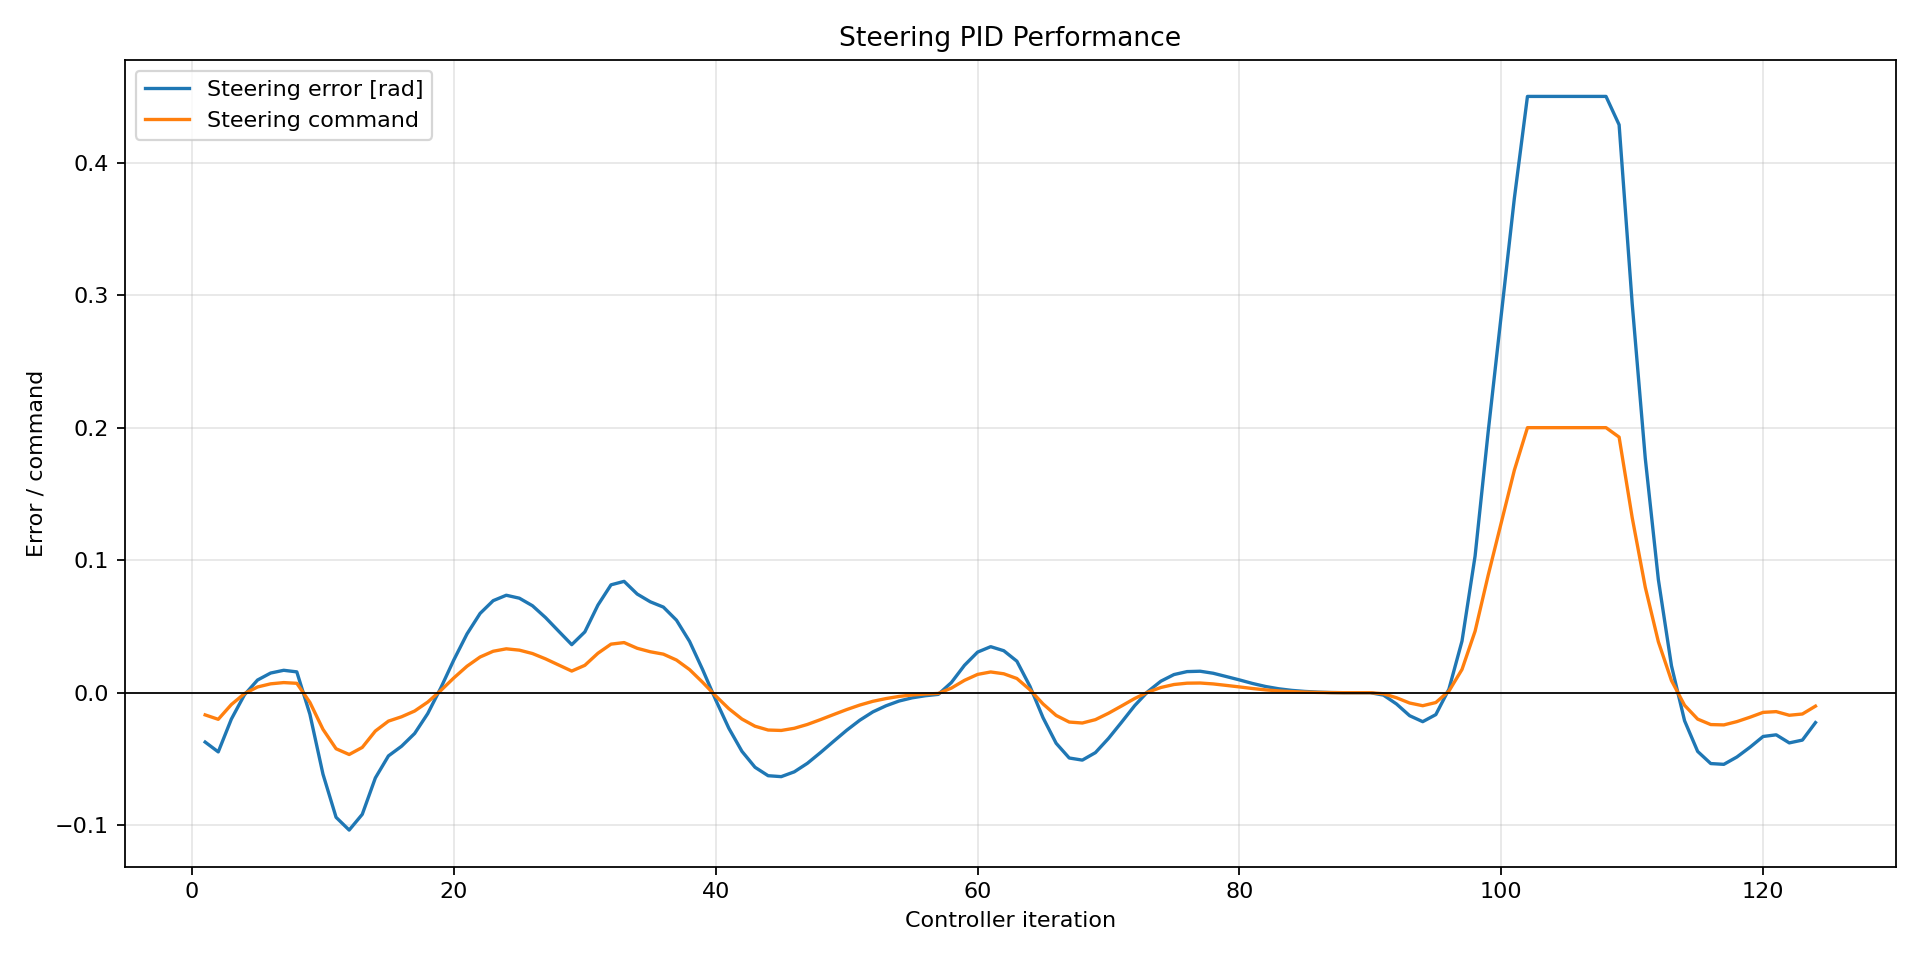
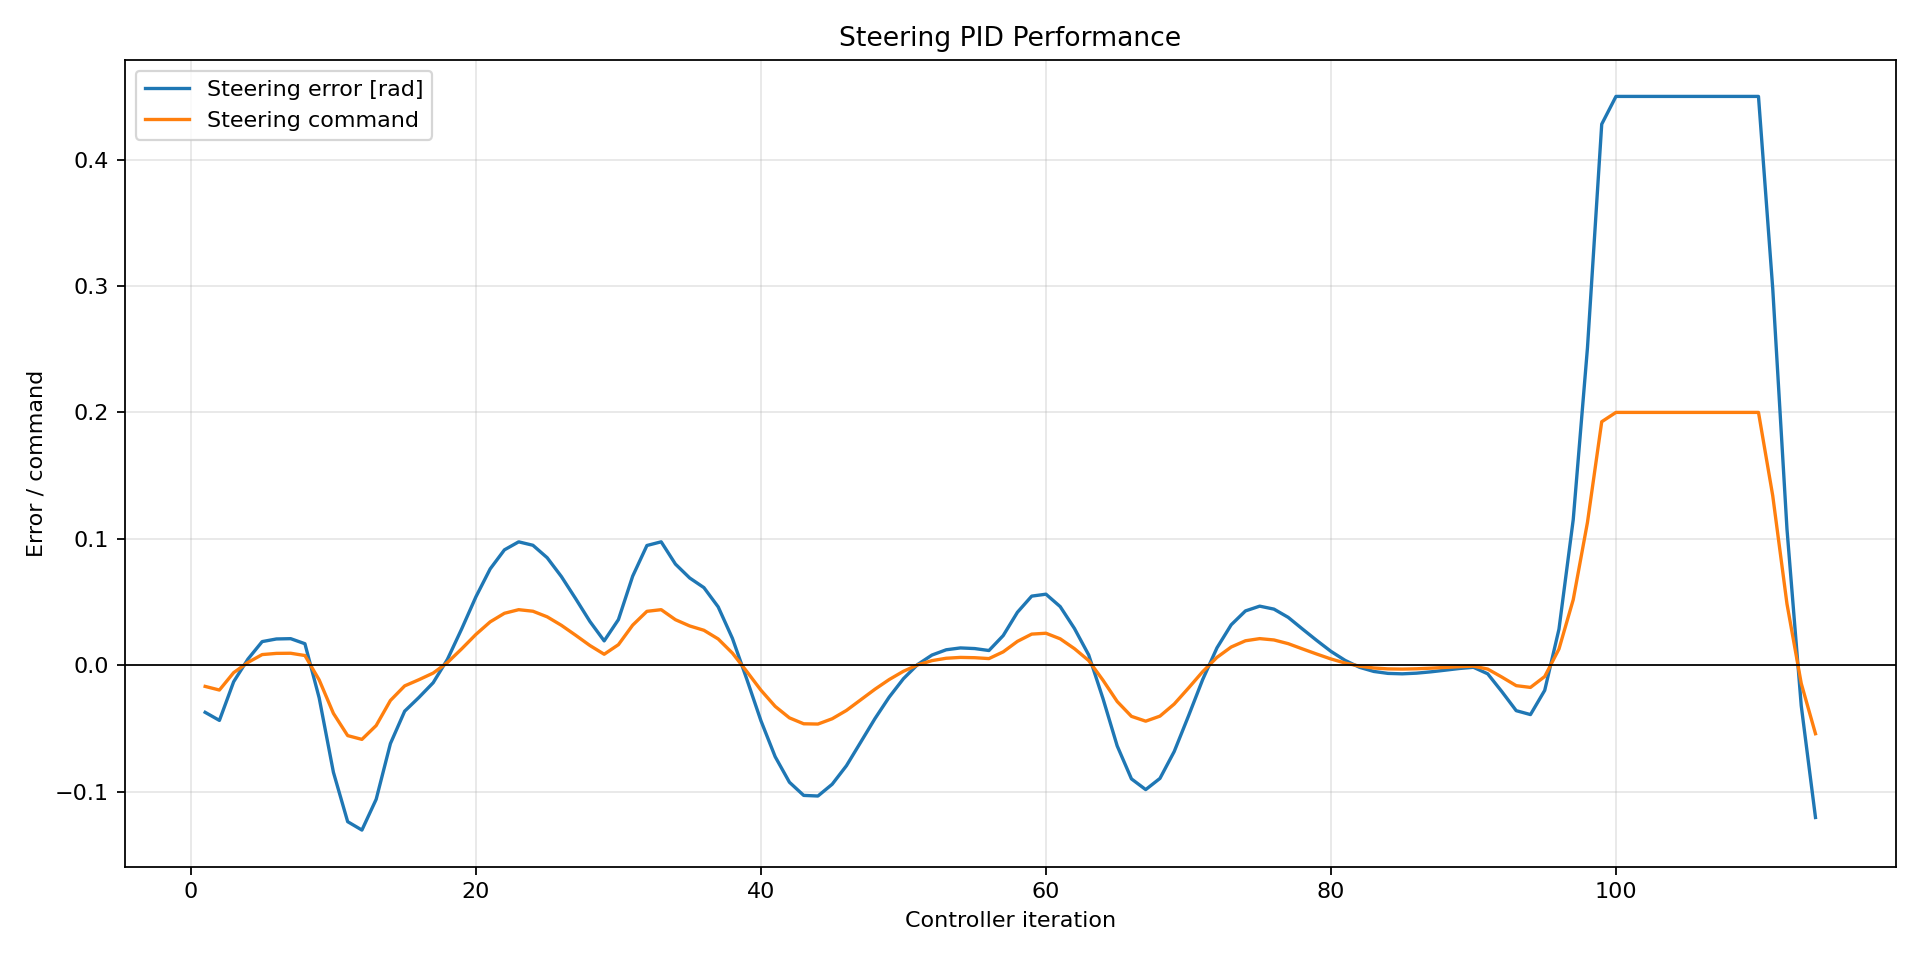
Update final report and simulation results

diff --git a/WRITEUP.md b/WRITEUP.md
@@ -1,235 +1,92 @@
-# Control and Trajectory Tracking for an Autonomous Vehicle
+# PID Controller Report
 
-## 1. Project Overview
+## 1. Controller Setup
 
-This project implements PID-based lateral and longitudinal control for a vehicle in the CARLA simulator. The controller receives a planned trajectory, the vehicle pose, and the measured speed through a WebSocket connection. It then computes steering, throttle, and brake commands while the motion planner generates collision-free candidate spirals around three parked vehicles.
+This project uses PID control to follow a planned trajectory in CARLA. One controller produces the steering command, while another produces throttle or brake.
 
-The final implementation was validated by driving past all three parked vehicles without collision. The final configuration uses:
-
-| Controller | $K_p$ | $K_i$ | $K_d$ | Output limits |
+| Controller | $K_p$ | $K_i$ | $K_d$ | Output limit |
 |---|---:|---:|---:|---:|
 | Steering | 0.45 | 0.00 | 0.00 | $[-0.20, 0.20]$ |
 | Throttle/brake | 0.40 | 0.02 | 0.02 | $[-1.00, 1.00]$ |
 
-Additional planning and tracking parameters are:
-
-- Speed limit: $2.5\,\mathrm{m/s}$
-- Maximum acceleration: $1.5\,\mathrm{m/s^2}$
-- Steering trajectory target: six points after the nearest trajectory point
-- Steering error limit: $[-0.45, 0.45]$ radians
-- Trajectory update threshold: 16 remaining points
-- Throttle target: mean velocity of the first three trajectory points
-
-## 2. PID Controller Implementation
-
-The PID controller is implemented with the standard control law
+The PID control law is
 
 $$
-u(t) = K_p e(t) + K_i \int_0^t e(\tau)\,d\tau + K_d \frac{de(t)}{dt}.$$
-
-At every update, the controller:
-
-1. Stores the current proportional error.
-2. Accumulates the integral error using the elapsed time.
-3. Computes the derivative from the difference between the current and previous errors.
-4. Combines all three terms.
-5. Clamps the command to the configured output limits.
-
-Output limiting is important because CARLA expects normalized actuator commands and because unlimited steering corrections produced unstable oscillation during tuning.
-
-## 3. Steering Control
-
-### 3.1 Target-point selection
-
-Using a fixed trajectory index was not reliable because the physical vehicle and the virtual trajectory did not always advance at exactly the same rate. The final implementation first finds the trajectory point nearest to the physical CARLA vehicle:
-
-$$i_{\text{nearest}} = \arg\min_i \left[(x_i-x)^2+(y_i-y)^2\right].$$
-
-The steering target is then selected six points ahead:
-
-$$i_{\text{target}} = \min(i_{\text{nearest}}+6,\;N-1).$$
-
-This provides sufficient preview for smooth obstacle avoidance while still reacting to the local path geometry.
-
-### 3.2 Vehicle-coordinate error
-
-The vector from the vehicle to the target is
-
-$$
-\Delta x=x_{\text{target}}-x, \qquad
-\Delta y=y_{\text{target}}-y.
+u(t)=K_p e(t)+K_i\int e(t)\,dt+K_d\frac{de(t)}{dt}.
 $$
 
-It is transformed into the vehicle coordinate frame using the vehicle yaw $\psi$:
+For steering, the error is the angle between the vehicle and a target point on the trajectory. For longitudinal control, the error is the difference between target and measured speed. A positive longitudinal output is throttle, and a negative output is brake.
 
-$$
-\begin{aligned}
-e_{\text{forward}} &= \cos(\psi)\Delta x+\sin(\psi)\Delta y,\\
-e_{\text{lateral}} &= -\sin(\psi)\Delta x+\cos(\psi)\Delta y.
-\end{aligned}
-$$
+### Additional File Changes
 
-If the target is ahead of the vehicle, the steering-angle error is
+Besides the three required PID files, I made two small supporting changes:
 
-$$e_{\text{steer}}=\operatorname{atan2}(e_{\text{lateral}},L),$$
+- In `simulatorAPI.py`, the virtual trajectory is advanced using the actual elapsed simulation time, capped at 0.05 s, instead of assuming 0.05 s for every rendered frame. The simulator also sends the real CARLA vehicle yaw together with its real position. These changes prevent the reference trajectory from moving at a different rate from the physical vehicle and avoid combining a real position with an unrelated virtual orientation. Without them, the steering error could remain incorrect even when the PID calculation itself was correct.
+- In `planning_params.h`, I reduced the speed limit from 3.0 m/s to 2.5 m/s. The lower speed gives the vehicle more time to follow the avoidance trajectory and keeps the required steering corrections within the configured output limit. This improved stability and safety when passing the parked vehicles.
 
-where the effective look-ahead distance is bounded between 5 m and 12 m. The resulting error is limited to $\pm0.45$ rad. If the selected point is behind the vehicle, the steering error is set to zero to avoid commanding a turn toward a stale point.
+## 2. Simulation Results
 
-### 3.3 Steering tuning
+### Step 1: Simulation Environment
 
-The final steering gains are
+![Step 1 CARLA simulation](project/pid_plots/final/step1.png)
 
-$$K_p=0.45,\qquad K_i=0,
-\qquad K_d=0.$$
+This screenshot shows the CARLA test environment used for the project. It contains the ego vehicle and the three parked vehicles that must be passed. The planned path and candidate spirals are also displayed, and the collision indicator is empty.
 
-A proportional controller was sufficient after improving the geometric steering error. Integral action was intentionally omitted because persistent integration can cause windup when the path changes during obstacle avoidance. Derivative action was also omitted because trajectory updates can introduce discrete changes in the target angle, which makes the derivative term noisy.
-
-The steering command is limited to $\pm0.20$. Lower proportional gains did not turn early enough around obstacles. Higher gains or larger command limits caused excessive left-right motion and roadside excursions.
-
-## 4. Longitudinal Control
-
-The desired velocity is calculated from the mean of the first three planned velocity samples:
-
-$$v_{\text{target}}=\frac{1}{M}\sum_{i=0}^{M-1}v_i,\qquad M=\min(3,N).$$
-
-The throttle error is
-
-$$e_v=v_{\text{target}}-v_{\text{measured}}.$$
-
-The final longitudinal gains are
-
-$$K_p=0.40,\qquad K_i=0.02,
-\qquad K_d=0.02.$$
-
-A positive PID output is applied as throttle. A negative output is converted to a positive brake command:
-
-$$
-\begin{cases}
-\text{throttle}=u,\;\text{brake}=0, & u>0,\\
-\text{throttle}=0,\;\text{brake}=-u, & u\leq0.
-\end{cases}
-$$
-
-Averaging the first three velocity points reduced sensitivity to an individual stale or discontinuous speed sample while preserving adequate response to planned speed changes.
-
-## 5. Effect of the PID Terms
-
-### Proportional term
-
-The proportional term reacts directly to the current error. Increasing $K_p$ produces a faster and stronger response. If it is too small, the vehicle turns too late or accelerates too slowly. If it is too large, the vehicle overshoots and oscillates.
-
-For steering, the final controller is proportional-only. Therefore, the steering-command curve follows the steering-error curve with a scale factor of 0.45 until the output reaches its $\pm0.20$ limit.
-
-### Integral term
-
-The integral term accumulates error over time and removes steady-state offset. It is useful for longitudinal control because drag and rolling resistance can leave a small persistent speed error. Too much integral gain causes overshoot and windup, particularly when the target speed changes or the command saturates.
-
-### Derivative term
-
-The derivative term reacts to the rate of change of the error. It adds damping and can reduce overshoot. However, it amplifies noise and discontinuities. A small derivative gain is used for longitudinal control, while steering uses no derivative term because the selected trajectory target can change discretely.
-
-## 6. Plot Interpretation
-
-The controller writes two log files during a run:
-
-- `steer_pid_data.txt`: iteration, steering error, steering output, nearest-path distance, selected indices, yaw, and transformed target errors.
-- `throttle_pid_data.txt`: iteration, speed error, brake output, and throttle output.
-
-### Steering result
+### Steering
 
 ![Steering PID performance](project/pid_plots/final/steering_pid.png)
 
-The steering command follows the steering error with the same shape because the final steering controller is proportional-only. During normal path tracking, both curves remain close to zero and change sign smoothly as the vehicle enters and exits avoidance maneuvers. Near iterations 100–108, the requested steering angle rises sharply and the command briefly reaches the configured $0.20$ limit. It then leaves saturation and returns toward zero. This short saturation period provides the strong turn needed for avoidance without remaining locked at the actuator limit.
+The blue curve is the steering-angle error and the orange curve is the steering command. They have the same shape because steering uses only the proportional term. Most corrections are small and smooth. Around iterations 99–110, the error becomes large during a strong turn and the command reaches its limit of 0.20. It then returns toward zero. This shows that the controller reacts to the path while keeping the steering command bounded.
 
-The command is smaller than the error because it is scaled by $K_p=0.45$. For unsaturated samples,
-
-$$u_{\text{steer}}=0.45e_{\text{steer}}.$$
-
-The absence of high-frequency oscillation after the large correction indicates that omitting integral and derivative action from steering produced a stable response for this trajectory.
-
-### Longitudinal result
+### Throttle and Brake
 
 ![Longitudinal PID performance](project/pid_plots/final/throttle_pid.png)
 
-The initial speed error is large because the vehicle starts nearly stationary while the trajectory requests forward motion. The throttle therefore initially reaches its upper limit. The speed error then decreases rapidly and continues converging toward zero. After the initial transient, the throttle settles near 0.3–0.32, which is the effort required to maintain the requested speed against the simulated vehicle resistance.
+The upper plot shows speed error. The lower plot shows throttle in green and brake in red. At startup, the large positive speed error produces full throttle. A short overshoot causes one brake pulse. The error then approaches zero and the throttle settles near 0.32. The response is stable because the error is small after the initial transient and there is no repeated switching between throttle and brake.
 
-The brake command remains zero in this run because the measured speed does not significantly exceed the planned speed. The smooth reduction in speed error and absence of rapid throttle/brake switching show that the longitudinal PID is stable. The integral term supplies the small persistent command required to remove steady-state speed error, while the derivative term damps the early transient.
+## 3. Effect of Each PID Term
 
-Plots can be generated from the recorded files with:
+- **Proportional ($P$):** reacts to the current error. A larger $K_p$ gives a faster and stronger response, but too much causes overshoot or oscillation. The steering plot shows the command following the error through the proportional gain.
+- **Integral ($I$):** accumulates past error and removes steady-state error. In the speed controller it supplies the continuous throttle needed to maintain target speed. Too much integral action can cause overshoot and windup.
+- **Derivative ($D$):** reacts to how quickly the error changes. It adds damping and reduces overshoot, but it is sensitive to noise. A small derivative gain is used for speed control to smooth the initial transient.
 
-```bash
-cd project
-python3 plot_pid.py
-```
+The steering controller uses only $P$. Integral action was unnecessary and could accumulate error during path changes. Derivative action was omitted because changes in the selected trajectory point can make the steering error noisy.
 
-The generated figures are saved in `project/pid_plots/final/`.
+## 4. Automatic PID Tuning
 
-## 7. Tuning Process
+I would run repeated simulations from the same initial conditions and minimize a cost function such as
 
-The parameters were tuned manually using repeated CARLA runs and the recorded PID logs:
+$$
+J=\sum e_{\text{steer}}^2+\sum e_{\text{speed}}^2
++\lambda\sum(\Delta u)^2+\text{collision penalties}.
+$$
 
-1. Begin with proportional-only steering at a low gain.
-2. Increase steering $K_p$ until the vehicle can follow the planned avoidance path.
-3. Add a nearest-point search so steering remains referenced to the physical vehicle.
-4. Add a six-point preview to turn early enough around obstacles.
-5. Bound the angular error and actuator output to prevent unstable commands.
-6. Tune throttle $K_p$ for adequate acceleration.
-7. Add small $K_i$ and $K_d$ terms to reduce steady-state speed error and damp speed changes.
-8. Reduce the planning speed limit to $2.5\,\mathrm{m/s}$ to improve tracking margin.
-9. Validate the complete controller against all three parked vehicles.
+The cost measures tracking error and command smoothness, while assigning a very large penalty to collisions or leaving the road. An algorithm such as Twiddle or Bayesian optimization could test different values of $K_p$, $K_i$, and $K_d$. Every candidate should use the same map, spawn position, obstacles, and simulation time. The best gains should then be tested with different starting positions and speeds to check that they generalize.
 
-A major lesson was to separate controller tuning from planner and state-estimation problems. A steering command that remains saturated is not necessarily a PID tuning problem; it can also mean that the trajectory, position, and yaw are inconsistent.
-
-## 8. Automatic PID Tuning
-
-An automatic tuner could minimize a weighted objective over repeated deterministic simulations:
-
-$$J=w_1\sum_t e_{\text{lateral}}^2+w_2\sum_t e_v^2+w_3\sum_t \Delta u_t^2+w_4N_{\text{collision}}+w_5N_{\text{lane invasion}}.$$
-
-A practical procedure would be:
-
-1. Fix the CARLA map, spawn point, obstacles, random seed, and simulation duration.
-2. Define safe ranges for $K_p$, $K_i$, and $K_d$.
-3. Run each candidate parameter set from an identical initial state.
-4. Reject candidates that collide, leave the road, or remain saturated for too long.
-5. Optimize the remaining candidates using Bayesian optimization, coordinate descent, or the Twiddle algorithm.
-6. Validate the best gains over different frame rates, initial offsets, and vehicle speeds.
-
-Bayesian optimization would be appropriate because simulator evaluations are expensive and the objective is not analytically differentiable.
-
-## 9. Model-Free Controller: Advantages and Disadvantages
+## 5. Model-Free PID: Pros and Cons
 
 ### Advantages
 
-- It does not require an accurate vehicle dynamics model.
-- It is simple to implement and computationally inexpensive.
-- Gains can be tuned directly from measured behavior.
-- The same controller structure can be reused with different vehicles.
-- It is robust to moderate modeling uncertainty.
+1. PID does not require an accurate mathematical model of the vehicle, so it is easy to implement and tune from measured behavior.
+2. It requires little computation and is suitable for real-time control.
+3. It can still work when the real vehicle differs moderately from an assumed model.
 
 ### Disadvantages
 
-- Gains may not generalize across speeds, frame rates, road friction, or vehicles.
-- The controller does not explicitly account for steering dynamics, tire forces, actuator delay, or vehicle constraints.
-- Saturation and integral windup require additional handling.
-- PID reacts to error rather than predicting future path curvature.
-- Discontinuous trajectories can cause abrupt commands.
-- Separate lateral and longitudinal loops do not capture their dynamic coupling.
+1. One set of gains may not work equally well at different speeds, road friction levels, or vehicle loads.
+2. PID reacts to errors after they occur, whereas a model-based controller can predict future motion and path curvature.
+3. Vehicle constraints and coupling between steering and speed are not represented explicitly.
 
-## 10. Possible Improvements
+Compared with PID, a model-based controller can use vehicle dynamics and constraints to plan smoother future commands, but it is more complex, computationally expensive, and dependent on model accuracy.
 
-The controller could be improved by:
+## 6. Possible Improvements
 
-- Using a monotonic nearest-point search instead of searching the full trajectory on every cycle.
-- Selecting the look-ahead distance as a continuous function of vehicle speed.
-- Adding steering-rate limiting for smoother actuator commands.
-- Adding integral anti-windup for throttle and brake.
-- Using a high-resolution monotonic clock or simulator timestamps for PID timing.
-- Validating and truncating stale trajectory entries when a new path is received.
-- Handling motion-planner failure with a safe fallback trajectory.
-- Replacing the lateral PID with a Stanley, Pure Pursuit, LQR, or Model Predictive Controller.
-- Running CARLA in synchronous mode with a fixed simulation step for reproducible tests.
+- Change the steering look-ahead distance according to vehicle speed.
+- Add anti-windup for the throttle integral term.
+- Limit the steering rate to produce smoother commands.
+- Use a fixed simulation time step for more repeatable tuning.
+- Replace the lateral PID with Pure Pursuit, Stanley, LQR, or MPC if better prediction and constraint handling are required.
 
-## 11. Final Result
+## 7. Conclusion
 
-The final controller successfully followed the generated trajectory and passed all three parked vehicles without collision in the validated test run. The most important changes were robust nearest-point selection, a six-point steering preview, bounded steering commands, smoothed velocity targeting, and conservative planning speed.
+The final controller followed the planned trajectory and passed the parked vehicles without collision. The plots show bounded steering corrections and speed error converging close to zero. The controller is simple and effective for this test, although its gains may need retuning under different vehicle or road conditions.
